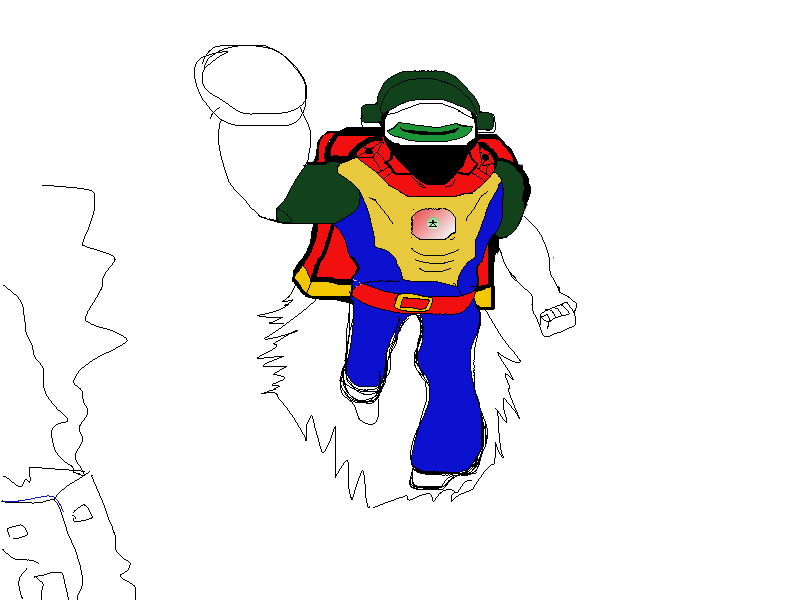
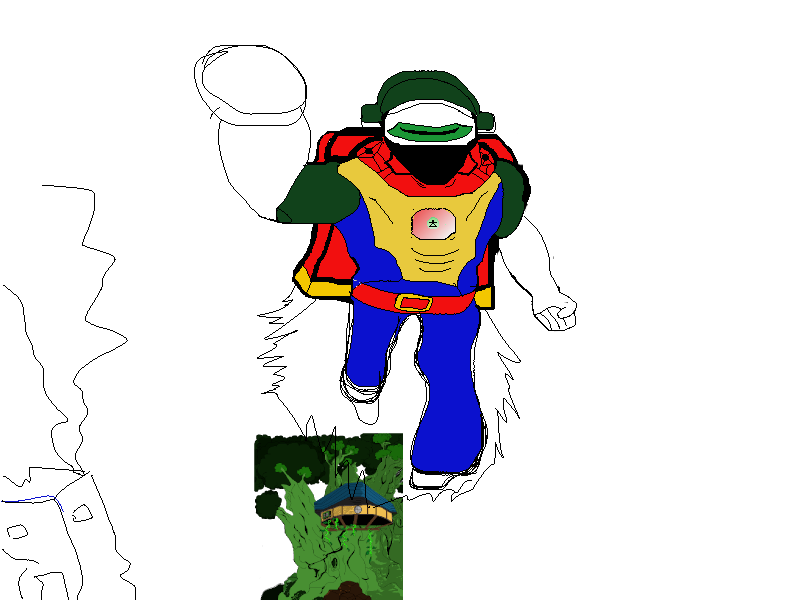
was able to go to the ending story when memory device collected. - WIP

Changed region(s): [[0.3125, 0.72, 0.5312, 1.0], [0.6562, 0.51, 0.7188, 0.54]]

diff --git a/js/Hero.js b/js/Hero.js
@@ -859,16 +859,15 @@ function heroClass() {
         keyCollectionSound();
         worldGrid[walkIntoTileIndex] = WORLD_EMPTY;
         break;
-/*
+
       case WORLD_MEMORY:
          worldNow=5;//test ending story
-         
          document.getElementById('gameHeading').innerHTML = 'TERROFADIA FOREST';
          levelList=worldList[worldNow];
          levelNow =0;
          document.getElementById("progression").play();
          loadLevel(levelList[levelNow]);
-         break;*/
+         break;
 
 
 
